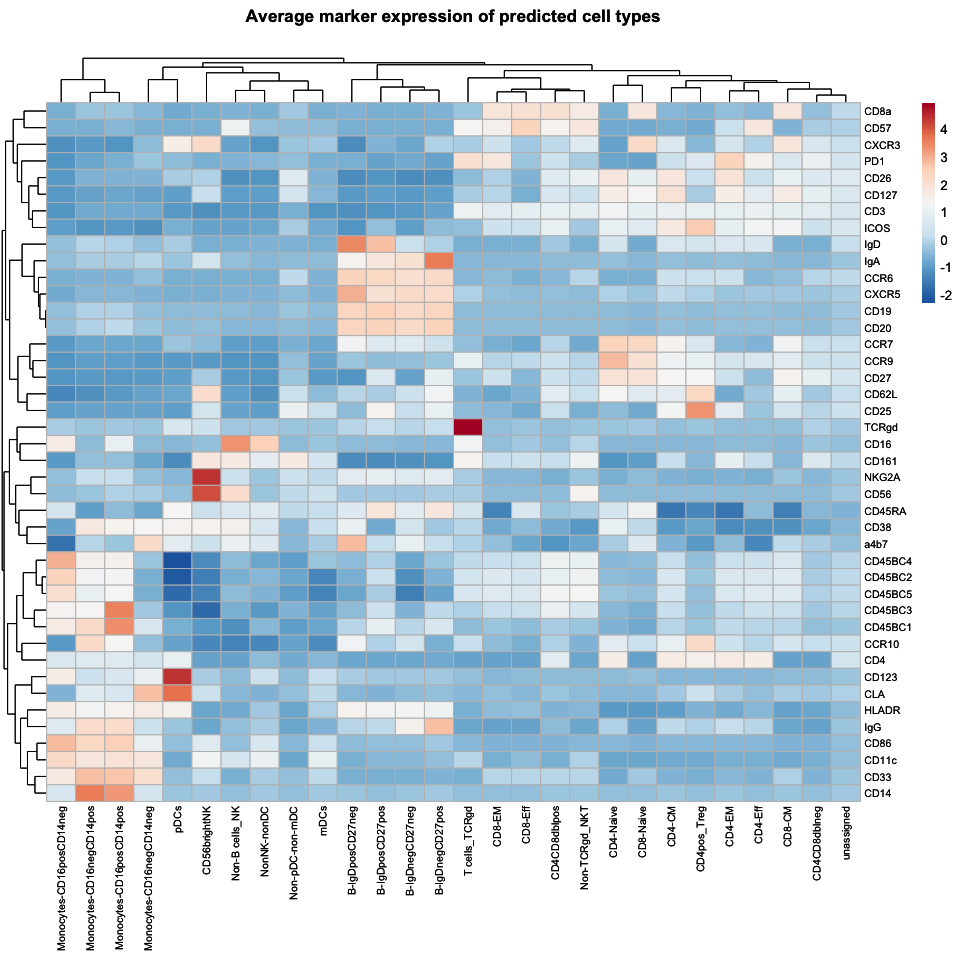
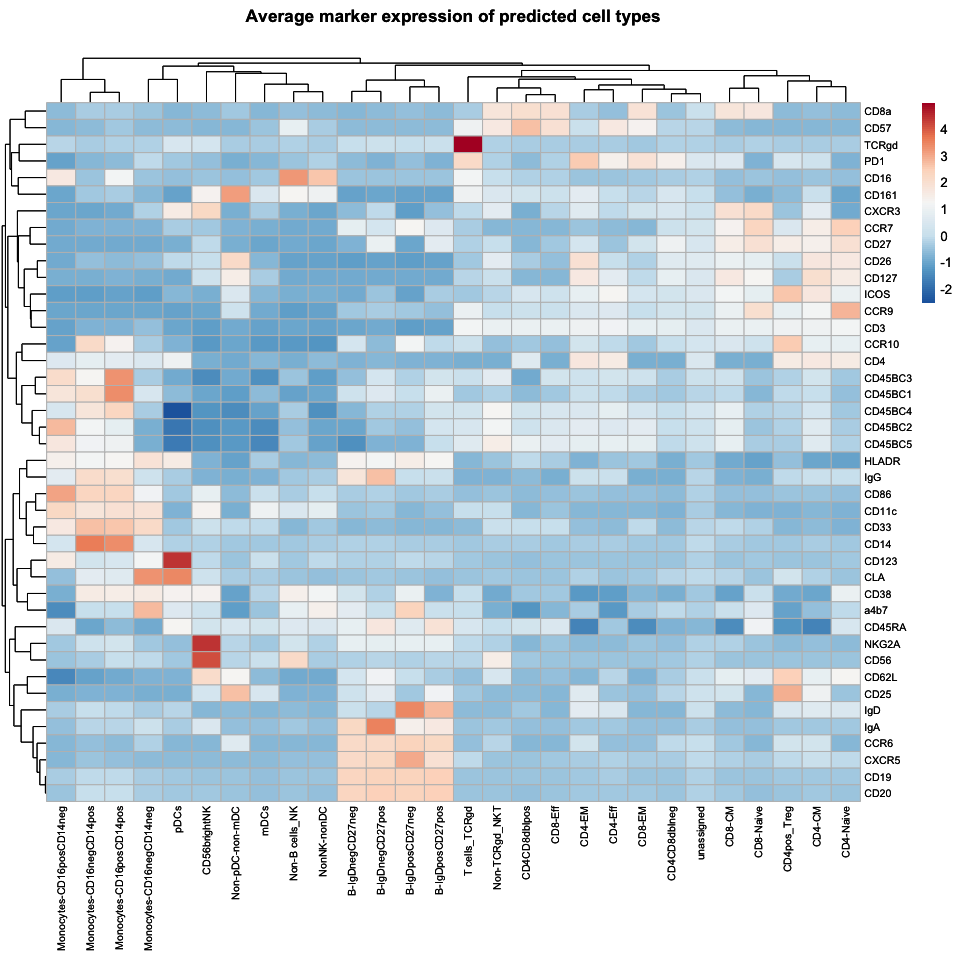
Version bump, CLR abundances, vignette link, and updated docs

diff --git a/README.md b/README.md
@@ -37,11 +37,8 @@ remotes::install_github("biosurf/cyDefine")
 
 ## Documentation
 
-To view the documentation for using `cyDefine`, start R and enter:
-
-``` r
-browseVignettes("cyDefine")
-```
+Find user guides and analysis vignettes on
+[Biosurf.org/cyDefine](https://biosurf.org/cyDefine).
 
 ## Usage
 
@@ -83,7 +80,7 @@ classified <- cyDefine(
 #> Running classification to identify similar populations
 #> 
 #> Reference adapted!
-#> Reference adaptation took 4.03 seconds
+#> Reference adaptation took 5.14 seconds
 #> Warning in batch_correct(reference = reference, query = query, markers =
 #> markers, : Overlapping sample ID(s) found between reference and query. Assuming
 #> that these represent different samples. Adding '_ref' and '_query',
@@ -92,15 +89,15 @@ classified <- cyDefine(
 #> Scaling expression data..
 #> Creating SOM grid..
 #> Batch correcting data..
-#> Batch correction took 15.39 seconds
+#> Batch correction took 27.99 seconds
 #> Making initial projection to filter out redundant cell types of the reference
 #> Excluding the following redundant celltypes from the reference: 
 #> Basophil
 #> Training random forest model using 4 threads
-#> Model training took 13.17 seconds
+#> Model training took 14 seconds
 #> Predicting..
-#> Classification took 19.68 seconds
-#> Outlier detection took 0.08 seconds
+#> Classification took 21.14 seconds
+#> Outlier detection took 0.1 seconds
 ```
 
 `cyDefine()` returns three objects:
